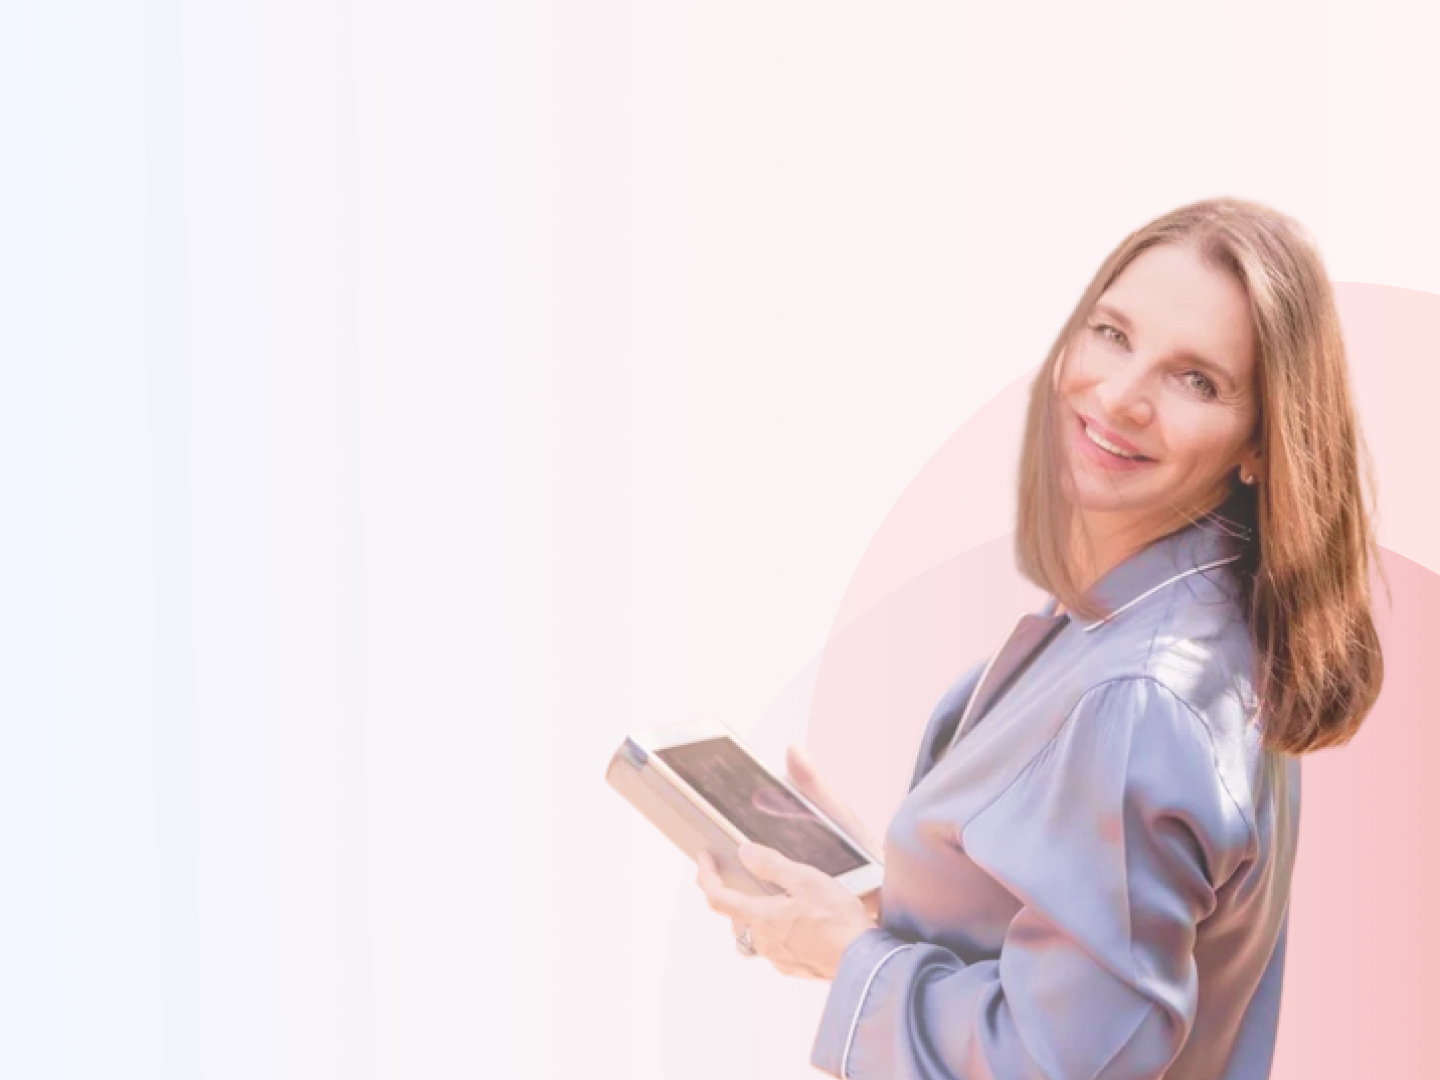
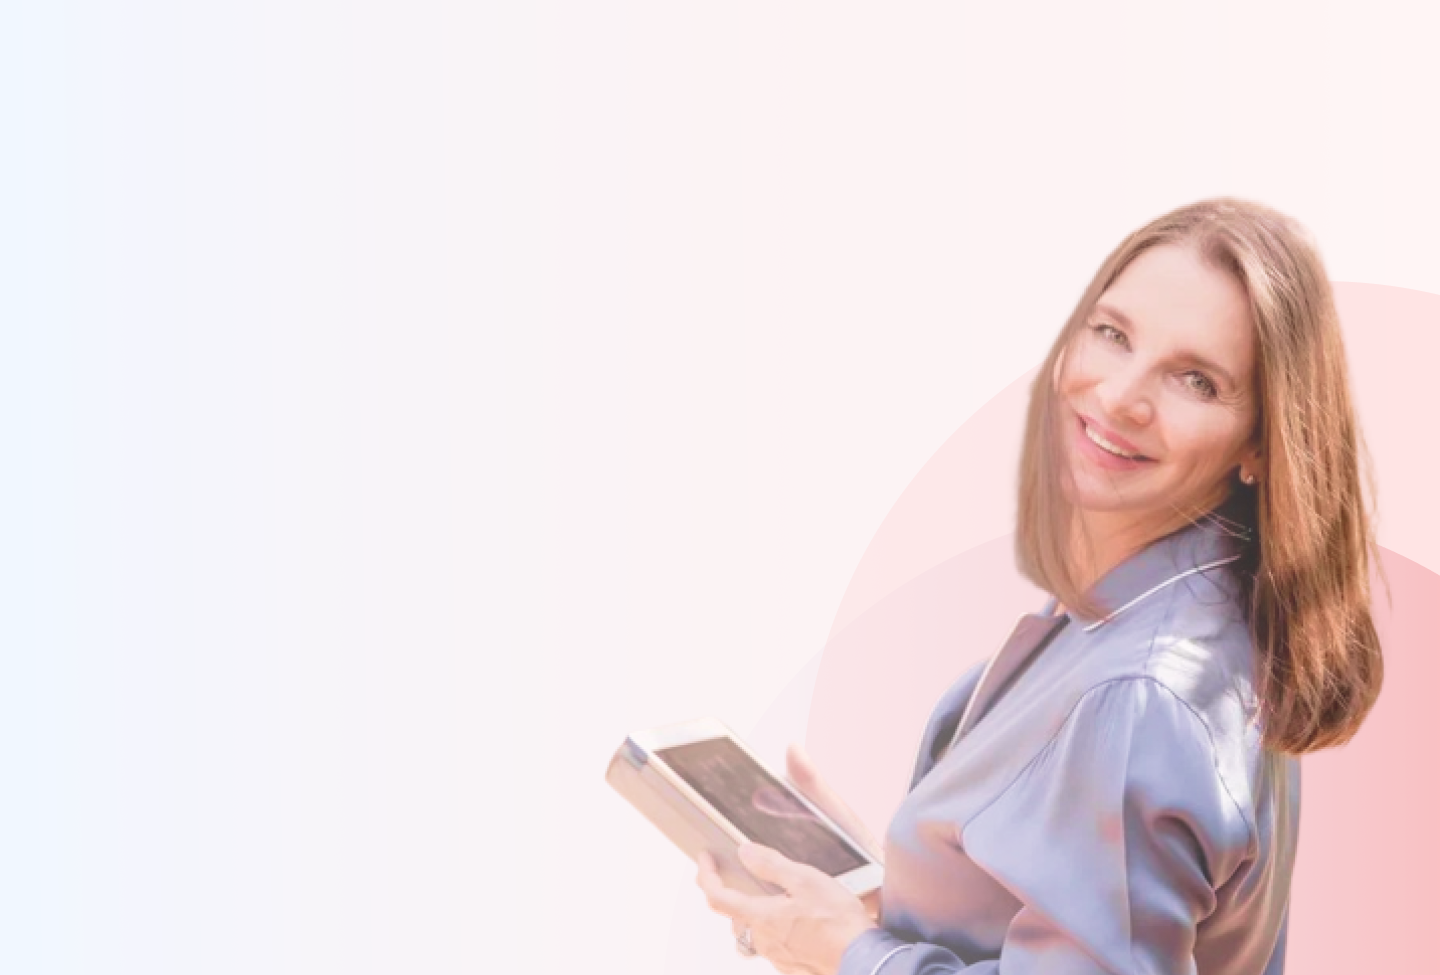
незначительные изменения в моих блоках: заменила иллюстрации, высоту фона на гоавной странице

Changed region(s): [[0.4062, 0.1846, 1.0, 1.0]]

diff --git a/assets/styles/style.css b/assets/styles/style.css
@@ -829,14 +829,10 @@ textarea {
   padding: 1.2em 2.6em;
 }
 
-.btn-buy {
-  padding: 1.2em 2.6em;
-}
-
 .btn-purple {
   background: #9B89FF;
   color: #ffffff;
-  padding: 1.7em 2.4em;
+  padding: 1.7em 0.5em;
 }
 .btn-purple:hover {
   background: #8e7eec;
@@ -913,11 +909,11 @@ textarea {
   display: flex;
   flex-direction: column;
   width: 1440px;
-  height: 1080px;
+  height: 975px;
   background-image: url("/assets/images/Background_1-block.png");
   background-repeat: no-repeat;
   background-size: cover;
-  padding-top: -132px;
+  padding-top: -80px;
 }
 
 .main-section__title-main {
@@ -983,6 +979,7 @@ textarea {
 
 .reviews-section__title {
   margin-bottom: 40px;
+  align-self: center;
 }
 
 .reviews-section__wrappers-block {
@@ -1053,101 +1050,6 @@ textarea {
 .reviews-section__caption_right {
   width: 627px;
   height: 24px;
-}
-
-.price {
-  background: linear-gradient(180deg, rgba(155, 137, 255, 0.15) 0%, rgba(155, 137, 255, 0) 10.03%);
-  width: 1440px;
-  height: 1067px;
-  margin-top: 130px;
-}
-
-.price__row {
-  display: grid;
-  grid-template-columns: 1fr 1fr 1fr;
-  width: 1200px;
-}
-
-.price__title {
-  margin-left: 470px;
-  margin-top: 136px;
-  padding-top: 70px;
-}
-
-.price__line {
-  max-width: 598px;
-  margin-top: 42px;
-  margin-left: 410px;
-}
-
-.price__container {
-  display: flex;
-  flex-direction: column;
-  border: 6px solid #E9EBF6;
-  width: 402px;
-  height: 662px;
-  margin-left: 45px;
-  margin-top: 90px;
-}
-
-.price__text {
-  font-style: normal;
-  font-weight: 500;
-  font-size: 20px;
-  line-height: 33px;
-  letter-spacing: 0.06em;
-  margin-top: 15px;
-}
-
-.price__text_money {
-  color: #5200FF;
-  font-style: normal;
-  font-weight: 900;
-  font-size: 24px;
-  letter-spacing: 0.06em;
-  margin-left: 125px;
-  margin-top: 20px;
-}
-
-.price__subtitle {
-  text-align: center;
-  font-style: normal;
-  font-weight: 900;
-  font-size: 24px;
-  margin-top: 51px;
-}
-
-.price__point-violet, .price__point-pink {
-  width: 28px;
-  height: 28px;
-  margin-top: 15px;
-}
-
-.price__row-one {
-  display: flex;
-  justify-content: space-evenly;
-}
-
-.price__button {
-  margin-top: 185px;
-  width: 206px;
-  margin-left: 44px;
-}
-
-.price__button-second {
-  margin-top: 103px;
-  width: 206px;
-  margin-left: 44px;
-}
-
-.price__button-third {
-  margin-top: 17px;
-  width: 206px;
-  margin-left: 44px;
-}
-
-.price-book {
-  margin-right: 60px;
 }
 
 .lookbook-section {
@@ -1239,6 +1141,7 @@ textarea {
 
 .lookbook-section__button {
   margin-top: 26px;
+  width: 660px;
 }
 
 .present-block {
@@ -1346,6 +1249,102 @@ textarea {
   display: flex;
   flex-direction: column;
 }
+
+.price {
+  background: linear-gradient(180deg, rgba(155, 137, 255, 0.15) 0%, rgba(155, 137, 255, 0) 10.03%);
+  width: 1440px;
+  height: 1067px;
+  margin-top: 130px;
+}
+
+.price__row {
+  display: grid;
+  grid-template-columns: 1fr 1fr 1fr;
+  width: 1200px;
+}
+
+.price__title {
+  margin-left: 470px;
+  margin-top: 136px;
+  padding-top: 70px;
+}
+
+.price__line {
+  max-width: 598px;
+  margin-top: 42px;
+  margin-left: 410px;
+}
+
+.price__container {
+  display: flex;
+  flex-direction: column;
+  border: 6px solid #E9EBF6;
+  width: 402px;
+  height: 662px;
+  margin-left: 45px;
+  margin-top: 90px;
+}
+
+.price__text {
+  font-style: normal;
+  font-weight: 500;
+  font-size: 20px;
+  line-height: 33px;
+  letter-spacing: 0.06em;
+  margin-top: 15px;
+}
+
+.price__text_money {
+  color: #5200FF;
+  font-style: normal;
+  font-weight: 900;
+  font-size: 24px;
+  letter-spacing: 0.06em;
+  margin-left: 125px;
+  margin-top: 20px;
+}
+
+.price__subtitle {
+  text-align: center;
+  font-style: normal;
+  font-weight: 900;
+  font-size: 24px;
+  margin-top: 51px;
+}
+
+.price__point-violet, .price__point-pink {
+  width: 28px;
+  height: 28px;
+  margin-top: 15px;
+}
+
+.price__row-one {
+  display: flex;
+  justify-content: space-evenly;
+}
+
+.price__button {
+  margin-top: 185px;
+  width: 206px;
+  margin-left: 44px;
+}
+
+.price__button-second {
+  margin-top: 103px;
+  width: 206px;
+  margin-left: 44px;
+}
+
+.price__button-third {
+  margin-top: 17px;
+  width: 206px;
+  margin-left: 44px;
+}
+
+.price-book {
+  margin-right: 60px;
+}
+
 .advantages {
   background: #FEFBFB;
 }

diff --git a/index.html b/index.html
@@ -15,7 +15,7 @@
     <!-- ХЭДЭР -->
     <header class="header">
         <div class="header__row">
-            <a class="header__logo" href="#"><img src="./assets/images/logo_blue.png" alt="logo"></a>
+            <a href="#"><img class="header__logo" src="./assets/images/logo_blue.png" alt="logo"></a>
             <nav class="header__nav">
                 <ul class="header__list">
                     <li class="header__item"><a href="#" class="header__link">О МЕТОДЕ</a></li>
@@ -85,11 +85,7 @@
                         poster="./assets/images/review_1.png" src="./assets/video/video_1.mp4" width="253"
                         height="350"></video>
                     <article class="reviews-section__review-text review-first">
-                        “Lorem ipsum dolor sit amet, consectetur adipiscing elit, sed do
-                        eiusmod tempor incididunt ut labore et dolore magna aliqua. Eget
-                        lorem dolor sed viverra ipsum nunc aliquet bibendum enim. Vehicula
-                        ipsum a arcu cursus vitae congue mauris rhoncus aenean. Sit amet
-                        commodo nulla facilisi nullam vehicula ipsum.”
+                        “Я не знаю, как Клара это делает с помощью архетипов. Но в итоге она попала ровно в точку. Мне всё очень понравилось! Было комфортно, классно! Всем рекомендую!”
                     </article>
                 </div>
                 <div class="reviews-section__wrapper_right">

diff --git a/assets/sass/main-section/main-section.scss b/assets/sass/main-section/main-section.scss
@@ -2,12 +2,12 @@
     display: flex;
     flex-direction: column;
     width: 1440px;
-    // height: 948px;
-    height: 1080px;
+    height: 975px;
+    // height: 1080px;
     background-image: url('/assets/images/Background_1-block.png');
     background-repeat: no-repeat;
     background-size: cover;
-    padding-top: -132px;
+    padding-top: -80px;
 }
 .main-section__title-main {
     font-family: 'Montserrat', sans-serif;

diff --git a/assets/sass/buttons/buttons.sass b/assets/sass/buttons/buttons.sass
@@ -22,6 +22,6 @@
 .btn-purple
     background: #9B89FF
     color: #ffffff
-    padding: 1.7em 2.4em
+    padding: 1.7em 0.5em
     &:hover
         background: #8e7eec

diff --git a/assets/sass/reviews-section/reviews-section.scss b/assets/sass/reviews-section/reviews-section.scss
@@ -27,6 +27,7 @@
 }
 .reviews-section__title {
 margin-bottom: 40px;
+align-self:center;
 }
 .reviews-section__wrappers-block {
     width: 1254px;

diff --git a/assets/sass/lookbook-section/lookbook-section.scss b/assets/sass/lookbook-section/lookbook-section.scss
@@ -82,6 +82,7 @@
 }
 .lookbook-section__button {
     margin-top: 26px;
+    width: 660px;
 }
 
 
